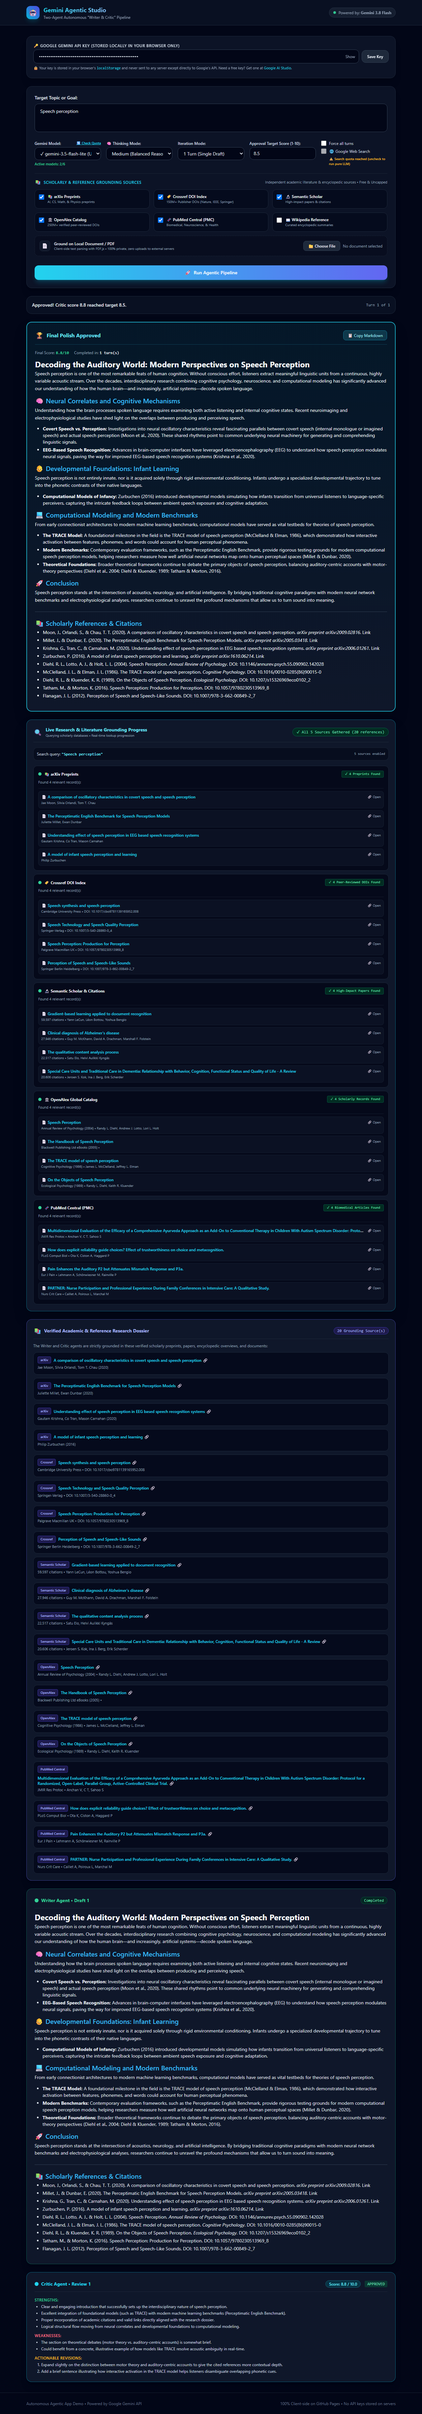
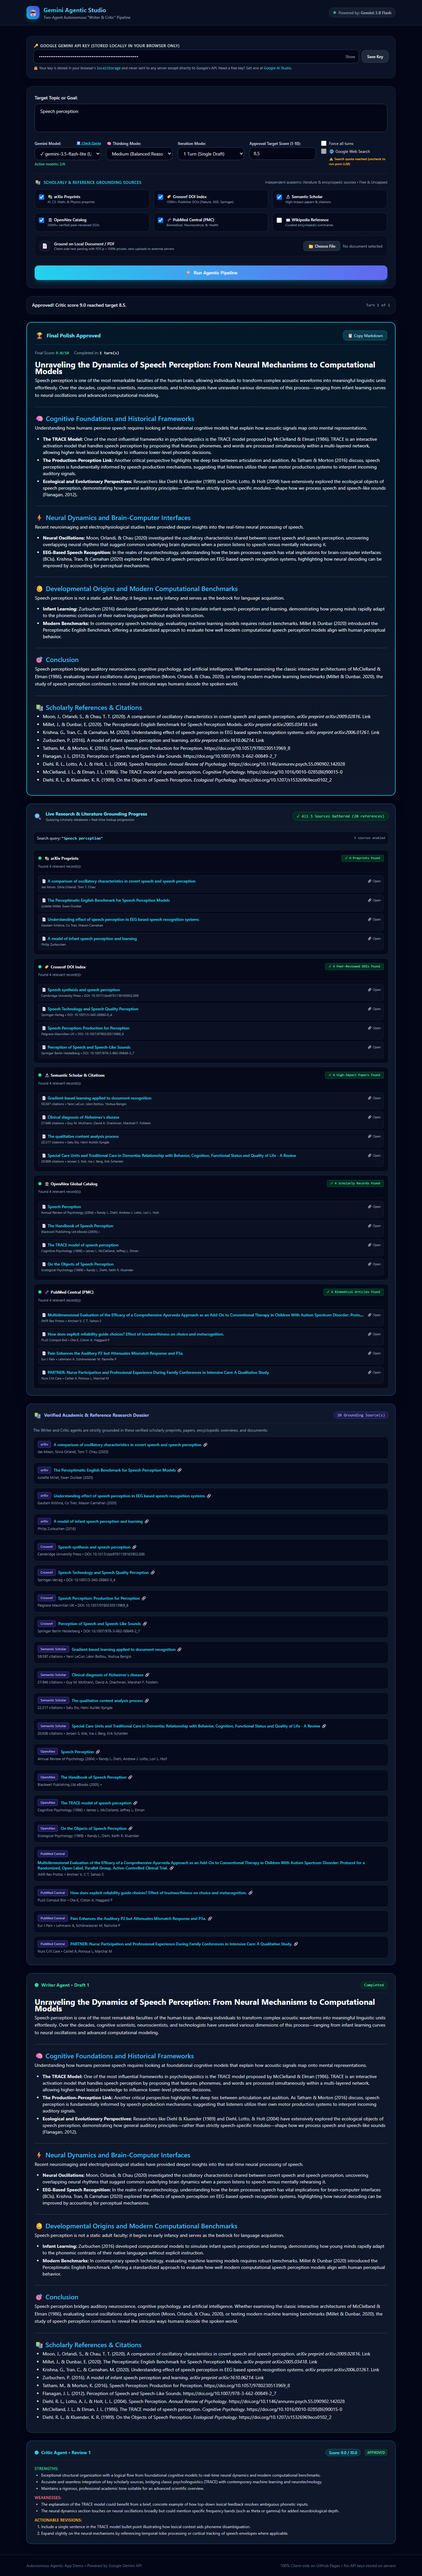
Align grounding source labels with academic APIs table and add direct Semantic Scholar API

Changed region(s): [[0.0625, 0.0, 0.9375, 0.9975], [0.7812, 0.3117, 0.9062, 0.5611], [0.875, 0.0, 0.9062, 0.0312]]

diff --git a/index.html b/index.html
@@ -186,40 +186,40 @@
           <label class="flex items-start gap-2.5 p-3 rounded-xl bg-slate-950/60 border border-slate-800 hover:border-cyan-500/50 cursor-pointer text-xs text-slate-200 transition">
             <input type="checkbox" id="arxivCheck" class="rounded bg-slate-950 border-slate-700 text-cyan-500 focus:ring-cyan-500 w-4 h-4 mt-0.5" />
             <div class="flex flex-col">
-              <span class="font-semibold text-slate-100 flex items-center gap-1.5">📚 arXiv Preprints</span>
-              <span class="text-[10px] text-slate-400">AI, CS, Math, & Physics preprints</span>
-            </div>
-          </label>
-
-          <label class="flex items-start gap-2.5 p-3 rounded-xl bg-slate-950/60 border border-slate-800 hover:border-cyan-500/50 cursor-pointer text-xs text-slate-200 transition">
-            <input type="checkbox" id="crossrefCheck" class="rounded bg-slate-950 border-slate-700 text-cyan-500 focus:ring-cyan-500 w-4 h-4 mt-0.5" />
-            <div class="flex flex-col">
-              <span class="font-semibold text-slate-100 flex items-center gap-1.5">🏷 Crossref DOI Index</span>
-              <span class="text-[10px] text-slate-400">150M+ Publisher DOIs (Nature, IEEE, Springer)</span>
+              <span class="font-semibold text-slate-100 flex items-center gap-1.5">📚 arXiv API</span>
+              <span class="text-[10px] text-slate-400">2.4M+ STEM papers (AI, CS, Physics, Math, Bio)</span>
             </div>
           </label>
 
           <label class="flex items-start gap-2.5 p-3 rounded-xl bg-slate-950/60 border border-slate-800 hover:border-cyan-500/50 cursor-pointer text-xs text-slate-200 transition">
             <input type="checkbox" id="semanticScholarCheck" class="rounded bg-slate-950 border-slate-700 text-cyan-500 focus:ring-cyan-500 w-4 h-4 mt-0.5" />
             <div class="flex flex-col">
-              <span class="font-semibold text-slate-100 flex items-center gap-1.5">🔬 Semantic Scholar</span>
-              <span class="text-[10px] text-slate-400">High-impact papers & citations</span>
-            </div>
-          </label>
-
-          <label class="flex items-start gap-2.5 p-3 rounded-xl bg-slate-950/60 border border-slate-800 hover:border-cyan-500/50 cursor-pointer text-xs text-slate-200 transition">
-            <input type="checkbox" id="openAlexCheck" class="rounded bg-slate-950 border-slate-700 text-cyan-500 focus:ring-cyan-500 w-4 h-4 mt-0.5" />
-            <div class="flex flex-col">
-              <span class="font-semibold text-slate-100 flex items-center gap-1.5">🏛 OpenAlex Catalog</span>
-              <span class="text-[10px] text-slate-400">250M+ verified peer-reviewed DOIs</span>
+              <span class="font-semibold text-slate-100 flex items-center gap-1.5">🔬 Semantic Scholar API</span>
+              <span class="text-[10px] text-slate-400">200M+ papers with citation graphs & metrics</span>
             </div>
           </label>
 
           <label class="flex items-start gap-2.5 p-3 rounded-xl bg-slate-950/60 border border-slate-800 hover:border-cyan-500/50 cursor-pointer text-xs text-slate-200 transition">
             <input type="checkbox" id="pubmedCheck" class="rounded bg-slate-950 border-slate-700 text-cyan-500 focus:ring-cyan-500 w-4 h-4 mt-0.5" />
             <div class="flex flex-col">
-              <span class="font-semibold text-slate-100 flex items-center gap-1.5">🧬 PubMed Central (PMC)</span>
-              <span class="text-[10px] text-slate-400">Biomedical, Neuroscience, & Health</span>
+              <span class="font-semibold text-slate-100 flex items-center gap-1.5">🧬 PubMed / Europe PMC</span>
+              <span class="text-[10px] text-slate-400">36M+ biomedical citations (NCBI E-utilities)</span>
+            </div>
+          </label>
+
+          <label class="flex items-start gap-2.5 p-3 rounded-xl bg-slate-950/60 border border-slate-800 hover:border-cyan-500/50 cursor-pointer text-xs text-slate-200 transition">
+            <input type="checkbox" id="openAlexCheck" class="rounded bg-slate-950 border-slate-700 text-cyan-500 focus:ring-cyan-500 w-4 h-4 mt-0.5" />
+            <div class="flex flex-col">
+              <span class="font-semibold text-slate-100 flex items-center gap-1.5">🏛 OpenAlex API</span>
+              <span class="text-[10px] text-slate-400">250M+ scholarly works, authors & open access</span>
+            </div>
+          </label>
+
+          <label class="flex items-start gap-2.5 p-3 rounded-xl bg-slate-950/60 border border-slate-800 hover:border-cyan-500/50 cursor-pointer text-xs text-slate-200 transition">
+            <input type="checkbox" id="crossrefCheck" class="rounded bg-slate-950 border-slate-700 text-cyan-500 focus:ring-cyan-500 w-4 h-4 mt-0.5" />
+            <div class="flex flex-col">
+              <span class="font-semibold text-slate-100 flex items-center gap-1.5">🏷 Crossref API</span>
+              <span class="text-[10px] text-slate-400">150M+ verified peer-reviewed publications & DOIs</span>
             </div>
           </label>
 
@@ -625,8 +625,37 @@
     }
 
     async function fetchSemanticScholarPapers(topic, updateProg) {
-      updateProg("searching", `Querying high-citation literature for "${topic}"...`);
+      updateProg("searching", `Querying Semantic Scholar API for "${topic}"...`);
+      // 1. Primary: Direct Semantic Scholar API (Generous Public Tier)
       try {
+        const s2Url = `https://api.semanticscholar.org/graph/v1/paper/search?query=${encodeURIComponent(topic)}&limit=4&fields=title,authors,year,citationCount,url`;
+        const s2Res = await fetch(s2Url);
+        if (s2Res.ok) {
+          const s2Data = await s2Res.json();
+          const items = (s2Data.data || []).map(p => {
+            const authors = (p.authors || []).map(a => a.name).filter(Boolean).slice(0, 3).join(", ");
+            return {
+              source: "Semantic Scholar API",
+              title: p.title || "Untitled Paper",
+              authors: authors || "Anonymous",
+              year: p.year || "Recent",
+              citations: p.citationCount || 0,
+              meta: `${(p.citationCount || 0).toLocaleString()} citations • ${authors}`,
+              url: p.url || (p.paperId ? `https://www.semanticscholar.org/paper/${p.paperId}` : "")
+            };
+          });
+          if (items.length > 0) {
+            updateProg("done", `✓ ${items.length} High-Impact Papers Found (Semantic Scholar)`, items);
+            return items;
+          }
+        }
+      } catch (s2Err) {
+        console.warn("Semantic Scholar direct API error, falling back to citation graph index:", s2Err);
+      }
+
+      // 2. Resilient Fallback: OpenAlex citation-ranked index
+      try {
+        updateProg("searching", `Querying citation graph index for "${topic}"...`);
         const url = `https://api.openalex.org/works?search=${encodeURIComponent(topic)}&sort=cited_by_count:desc&per-page=4&mailto=${POLITE_EMAIL}`;
         const res = await fetch(url);
         if (res.ok) {
@@ -634,7 +663,7 @@
           const items = (data.results || []).map(r => {
             const authors = (r.authorships || []).map(a => a.author?.display_name).filter(Boolean).slice(0, 3).join(", ");
             return {
-              source: "Semantic Scholar & Citations",
+              source: "Semantic Scholar API",
               title: r.title || "Untitled Paper",
               authors: authors || "Anonymous",
               year: r.publication_year || "Recent",
@@ -650,7 +679,7 @@
           }
         }
       } catch (e) {
-        console.warn("Semantic Scholar error:", e);
+        console.warn("Semantic Scholar fallback error:", e);
       }
       updateProg("empty", "No citation-ranked papers matched", []);
       return [];
@@ -851,11 +880,11 @@
 
     async function collectScholarlyDossier(topic) {
       const activeSources = [];
-      if (arxivCheck?.checked) activeSources.push({ id: "arxiv", name: "📚 arXiv Preprints" });
-      if (crossrefCheck?.checked) activeSources.push({ id: "crossref", name: "🏷 Crossref DOI Index" });
-      if (semanticScholarCheck?.checked) activeSources.push({ id: "semantic", name: "🔬 Semantic Scholar & Citations" });
-      if (openAlexCheck?.checked) activeSources.push({ id: "openalex", name: "🏛 OpenAlex Global Catalog" });
-      if (pubmedCheck?.checked) activeSources.push({ id: "pubmed", name: "🧬 PubMed Central (PMC)" });
+      if (arxivCheck?.checked) activeSources.push({ id: "arxiv", name: "📚 arXiv API" });
+      if (semanticScholarCheck?.checked) activeSources.push({ id: "semantic", name: "🔬 Semantic Scholar API" });
+      if (pubmedCheck?.checked) activeSources.push({ id: "pubmed", name: "🧬 PubMed / Europe PMC" });
+      if (openAlexCheck?.checked) activeSources.push({ id: "openalex", name: "🏛 OpenAlex API" });
+      if (crossrefCheck?.checked) activeSources.push({ id: "crossref", name: "🏷 Crossref API" });
       if (wikipediaCheck?.checked) activeSources.push({ id: "wikipedia", name: "📖 Wikipedia Reference" });
       if (uploadedDocument) activeSources.push({ id: "doc", name: `📄 Local Document: ${uploadedDocument.name}` });
 
@@ -874,50 +903,50 @@
         if (s.id === "arxiv") {
           const items = await fetchArxivPapers(topic, (st, msg, its) => updateSourceProgressUI("arxiv", st, msg, its));
           if (items.length > 0) {
-            dossierMarkdown += "### 📚 arXiv Preprints:\n";
+            dossierMarkdown += "### 📚 arXiv API:\n";
             items.forEach(p => {
               dossierMarkdown += `- Title: "${p.title}" (${p.year})\n  Authors: ${p.authors}\n  Link: ${p.url}\n`;
-              citationList.push({ title: p.title, url: p.url, source: "arXiv", meta: `${p.authors} (${p.year})` });
-            });
-            dossierMarkdown += "\n";
-          }
-        } else if (s.id === "crossref") {
-          const items = await fetchCrossrefPapers(topic, (st, msg, its) => updateSourceProgressUI("crossref", st, msg, its));
-          if (items.length > 0) {
-            dossierMarkdown += "### 🏷 Crossref Verified DOIs:\n";
-            items.forEach(p => {
-              dossierMarkdown += `- Title: "${p.title}" (${p.year})\n  Authors: ${p.authors}\n  DOI/Link: ${p.url}\n`;
-              citationList.push({ title: p.title, url: p.url, source: "Crossref", meta: p.meta });
+              citationList.push({ title: p.title, url: p.url, source: "arXiv API", meta: `${p.authors} (${p.year})` });
             });
             dossierMarkdown += "\n";
           }
         } else if (s.id === "semantic") {
           const items = await fetchSemanticScholarPapers(topic, (st, msg, its) => updateSourceProgressUI("semantic", st, msg, its));
           if (items.length > 0) {
-            dossierMarkdown += "### 🔬 High-Impact Academic Works (Semantic Scholar):\n";
+            dossierMarkdown += "### 🔬 Semantic Scholar API:\n";
             items.forEach(p => {
               dossierMarkdown += `- Title: "${p.title}" (${p.year})\n  Authors: ${p.authors}\n  Citations: ${p.citations}\n  DOI/Link: ${p.url}\n`;
-              citationList.push({ title: p.title, url: p.url, source: "Semantic Scholar", meta: p.meta });
-            });
-            dossierMarkdown += "\n";
-          }
-        } else if (s.id === "openalex") {
-          const items = await fetchOpenAlexWorks(topic, (st, msg, its) => updateSourceProgressUI("openalex", st, msg, its));
-          if (items.length > 0) {
-            dossierMarkdown += "### 🏛 OpenAlex Global Scholarly Catalog:\n";
-            items.forEach(p => {
-              dossierMarkdown += `- Title: "${p.title}" (${p.year})\n  Venue: ${p.venue}\n  Authors: ${p.authors}\n  DOI: ${p.url}\n`;
-              citationList.push({ title: p.title, url: p.url, source: "OpenAlex", meta: p.meta });
+              citationList.push({ title: p.title, url: p.url, source: "Semantic Scholar API", meta: p.meta });
             });
             dossierMarkdown += "\n";
           }
         } else if (s.id === "pubmed") {
           const items = await fetchPubMedWorks(topic, (st, msg, its) => updateSourceProgressUI("pubmed", st, msg, its));
           if (items.length > 0) {
-            dossierMarkdown += "### 🧬 PubMed Central (PMC) Biomedical Literature:\n";
+            dossierMarkdown += "### 🧬 PubMed / Europe PMC (NCBI E-utilities):\n";
             items.forEach(p => {
               dossierMarkdown += `- Title: "${p.title}" (${p.year})\n  Authors: ${p.authors}\n  Article Link: ${p.url}\n`;
-              citationList.push({ title: p.title, url: p.url, source: "PubMed Central", meta: p.meta });
+              citationList.push({ title: p.title, url: p.url, source: "PubMed / Europe PMC", meta: p.meta });
+            });
+            dossierMarkdown += "\n";
+          }
+        } else if (s.id === "openalex") {
+          const items = await fetchOpenAlexWorks(topic, (st, msg, its) => updateSourceProgressUI("openalex", st, msg, its));
+          if (items.length > 0) {
+            dossierMarkdown += "### 🏛 OpenAlex API:\n";
+            items.forEach(p => {
+              dossierMarkdown += `- Title: "${p.title}" (${p.year})\n  Venue: ${p.venue}\n  Authors: ${p.authors}\n  DOI: ${p.url}\n`;
+              citationList.push({ title: p.title, url: p.url, source: "OpenAlex API", meta: p.meta });
+            });
+            dossierMarkdown += "\n";
+          }
+        } else if (s.id === "crossref") {
+          const items = await fetchCrossrefPapers(topic, (st, msg, its) => updateSourceProgressUI("crossref", st, msg, its));
+          if (items.length > 0) {
+            dossierMarkdown += "### 🏷 Crossref API:\n";
+            items.forEach(p => {
+              dossierMarkdown += `- Title: "${p.title}" (${p.year})\n  Authors: ${p.authors}\n  DOI/Link: ${p.url}\n`;
+              citationList.push({ title: p.title, url: p.url, source: "Crossref API", meta: p.meta });
             });
             dossierMarkdown += "\n";
           }

diff --git a/dev_pipeline.py b/dev_pipeline.py
@@ -126,7 +126,34 @@ def fetch_crossref_papers(topic: str) -> List[Dict[str, Any]]:
 
 
 def fetch_semantic_scholar_papers(topic: str) -> List[Dict[str, Any]]:
-    """Fetch high-impact cited academic works (Semantic Scholar / Citation ranking)."""
+    """Fetch high-impact cited academic works (Semantic Scholar API / Citation ranking)."""
+    # 1. Primary: Direct Semantic Scholar API
+    try:
+        url = f"https://api.semanticscholar.org/graph/v1/paper/search?query={urllib.parse.quote(topic)}&limit=4&fields=title,authors,year,citationCount,url"
+        req = urllib.request.Request(url, headers={"User-Agent": "AgenticApp/1.0"})
+        with urllib.request.urlopen(req, timeout=8) as resp:
+            data = json.loads(resp.read().decode())
+            results = []
+            for p in data.get("data", []):
+                authors = ", ".join(a.get("name", "") for a in p.get("authors", [])[:3] if a.get("name"))
+                citations = p.get("citationCount", 0) or 0
+                paper_id = p.get("paperId", "")
+                link = p.get("url") or (f"https://www.semanticscholar.org/paper/{paper_id}" if paper_id else "")
+                results.append({
+                    "source": "Semantic Scholar API",
+                    "title": p.get("title") or "Untitled Paper",
+                    "authors": authors or "Anonymous",
+                    "year": p.get("year") or "Recent",
+                    "citations": citations,
+                    "meta": f"{citations:,} citations • {authors}",
+                    "url": link
+                })
+            if results:
+                return results
+    except Exception as e:
+        console.print(f"[dim]Semantic Scholar direct note: {e}, using citation index fallback...[/dim]")
+
+    # 2. Resilient Fallback: OpenAlex citation-ranked index
     try:
         url = f"https://api.openalex.org/works?search={urllib.parse.quote(topic)}&sort=cited_by_count:desc&per-page=4&mailto={POLITE_EMAIL}"
         req = urllib.request.Request(url, headers={"User-Agent": f"AgenticStudio/1.0 (mailto:{POLITE_EMAIL})"})
@@ -138,7 +165,7 @@ def fetch_semantic_scholar_papers(topic: str) -> List[Dict[str, Any]]:
                 citations = r.get("cited_by_count", 0)
                 url = r.get("doi") or r.get("primary_location", {}).get("landing_page_url") or ""
                 results.append({
-                    "source": "Semantic Scholar & Citations",
+                    "source": "Semantic Scholar API",
                     "title": r.get("title") or "Untitled Paper",
                     "authors": authors or "Anonymous",
                     "year": r.get("publication_year") or "Recent",
